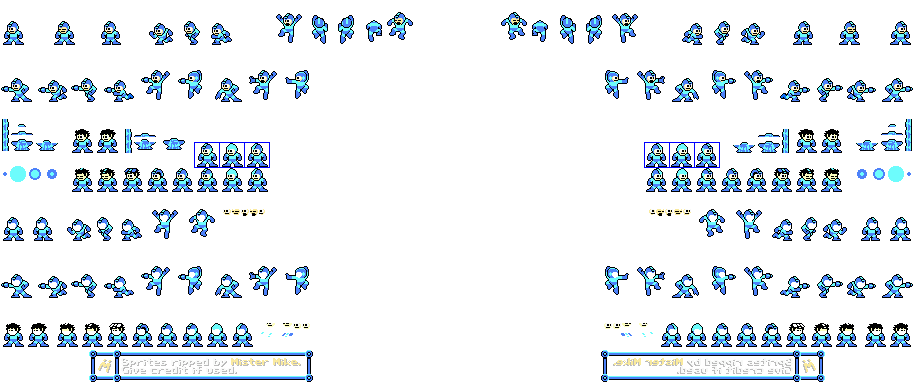
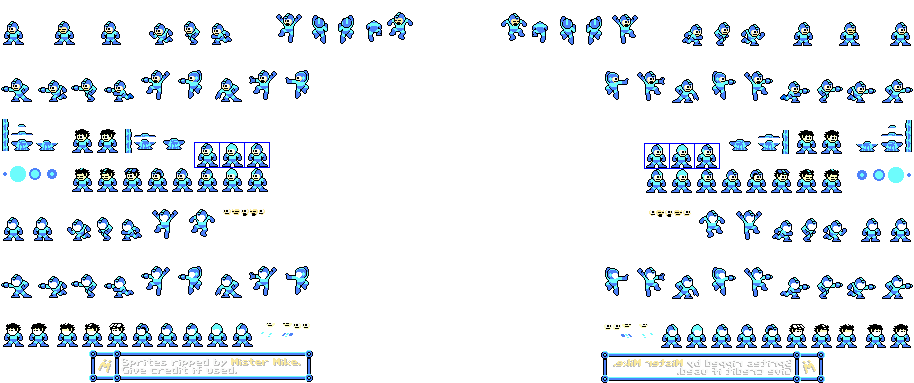
Added Atomic flame colour changes

diff --git a/Player Controls.cpp b/Player Controls.cpp
@@ -43,10 +43,13 @@ class pControls {
 	bool ladderBelow = false;
 	bool ladderAbove = true;
 
+
 	//list<bullet*> bullets;
 	Weapon* weapon;
 	Texture* bT;
 	//int weapon = 0;
+
+	bool holding = false;
 
 	
 public:
@@ -267,6 +270,10 @@ public:
 			idle(deltaT);
 		}
 	}
+	
+	bool getHold() {
+		return holding;
+	}
 
 	void idle(float* deltaT) {
 		pAnim->resetRun();
@@ -292,10 +299,14 @@ public:
 		}
 
 		else if (p1->checkB()) {
-			weapon->hold(deltaT);
+			if (weapon->hold(deltaT) != NULL) {
+				holding = true;
+			}
+			
 		}
 		else if (!p1->checkB() && BPressed) {
 			BPressed = false;
+			holding = false;
 			if (weapon->release(pAnim->getFacingRight())) {
 				pAnim->shootStart();
 			}
@@ -324,6 +335,27 @@ public:
 		}
 	}
 
+	int holdin() {
+		float holdTime = weapon->getHoldTime();
+		if (holdTime < weapon->getMaxHoldTime()) {
+			int animFrame = ((holdTime * 1000000000) / 90000000);
+			animFrame = animFrame % 4;
+
+
+
+			return animFrame * 380;
+
+		}
+		else {
+			int animFrame = ((holdTime * 1000000000) / 7500000);
+			animFrame = animFrame % 4;
+
+
+
+			return animFrame * 380;
+		}
+		return 0;
+	}
 
 	void jumpConditions(float* deltaT) {
 		if (grounded) {

diff --git a/Player.cpp b/Player.cpp
@@ -25,6 +25,10 @@ class player {
 	objectHitbox* ladderBelow;
 	objectHitbox* ladderAbove;
 
+	int holdAdd = 0;
+	float holdTime = 0.2;
+	int cycles = 0;
+
 	playerAnimation* pAnim;
 
 	energyBar* health;
@@ -143,6 +147,33 @@ public:
 
 		updateHitbox();
 
+
+		checkHold(deltaT);
+
+		cout << sprite->getRect().getPosition().y;
+		cout << ", ";
+
+	}
+
+	int beforeHold = 0;
+
+	void checkHold(float* deltaT) {
+		int holdAdd = 0;
+		
+
+		holdAdd = controls->holdin();
+		
+		beforeHold = sprite->getRect().getPosition().y;
+
+		sprite->setRect(IntRect(Vector2i(sprite->getRect().getPosition().x, sprite->getRect().getPosition().y + holdAdd), sprite->getRect().getSize()));
+	}
+
+	int getBeforeHold() {
+		return beforeHold;
+	}
+
+	int getHoldAdd() {
+		return holdAdd;
 	}
 
 	void updateLighting() {

diff --git a/Atomic Fire.cpp b/Atomic Fire.cpp
@@ -12,9 +12,10 @@ public:
 		colourP->loadFromFile("Assets\\Atomic fire.png");
 	}
 
-	void hold(float* deltaT) {
+	bool hold(float* deltaT) {
 		bullet* temp = *bullets.begin();
 		temp->hold(deltaT);
+		return true;
 	}
 
 	bool release(bool right) {
@@ -29,5 +30,14 @@ public:
 
 	bool uniqueFire() {
 		return false;
+	}
+
+	float getHoldTime() {
+		bullet* temp = *bullets.begin();
+		return temp->getHoldTime();
+	}
+	float getMaxHoldTime() {
+		bullet* temp = *bullets.begin();
+		return temp->getMaxHoldTime();
 	}
 };

diff --git a/Scene.cpp b/Scene.cpp
@@ -223,6 +223,7 @@ public:
 			//p->updateLighting();
 			//lightingCheck();
 			instance->objectDisplay(p->getSprite(), cam);
+			p->getSprite()->setRect(IntRect(Vector2i(p->getSprite()->getRect().getPosition().x, p->getBeforeHold()), p->getSprite()->getRect().getSize()));
 			//instance->screenLightingDisplay(screenLighting->getRectangles());
 			instance->UIDisplay(p->getUI());
 			//transition* cur = *next(tIterator);

diff --git a/Weapon.cpp b/Weapon.cpp
@@ -59,8 +59,11 @@ public:
 
 	virtual bool uniqueFire() { return true; };
 	virtual void secondFire() {};
-	virtual void hold(float* deltaT) {};
+	virtual bool hold(float* deltaT) { return NULL; };
 	virtual bool release(bool right) { return false; };
+
+	virtual float getHoldTime() { return NULL; };
+	virtual float getMaxHoldTime() { return NULL; };
 
 	Texture* getTexture() {
 		return colourP;

diff --git a/Bullet.cpp b/Bullet.cpp
@@ -36,6 +36,8 @@ public:
 	virtual void onHit() {};
 	virtual int checkDamage(object* en) { return NULL; };
 	virtual void hold(float* deltaT) {};
+	virtual float getHoldTime() { return NULL; };
+	virtual float getMaxHoldTime() { return NULL; };
 
 	void shootReset() {
 		sprite->setPosition(Vector2f(0, 0));

diff --git a/Atomic Fire Bullet.cpp b/Atomic Fire Bullet.cpp
@@ -112,4 +112,11 @@ public:
 		shootReset();
 	}
 
+	float getHoldTime() {
+		return holdTime;
+	}
+	float getMaxHoldTime() {
+		return maxHold;
+	}
+
 };

diff --git a/Main.cpp b/Main.cpp
@@ -111,6 +111,6 @@ int main() {
 
 	//mainMenu* menu = new mainMenu();
 	//menu->menu(instance, targetFPS, col);
-	cout << "hi";
+	//cout << "hi";
 
 }
